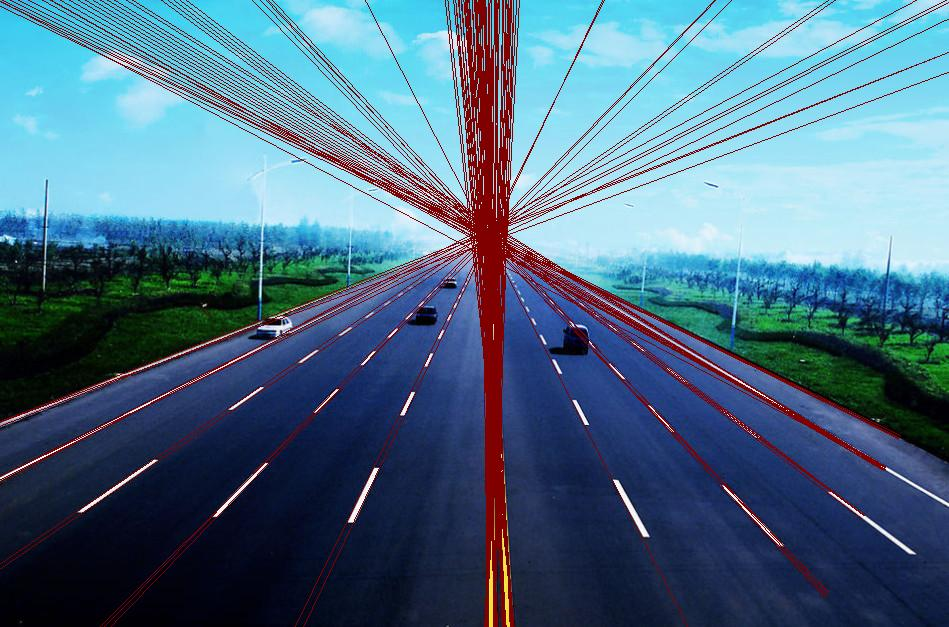
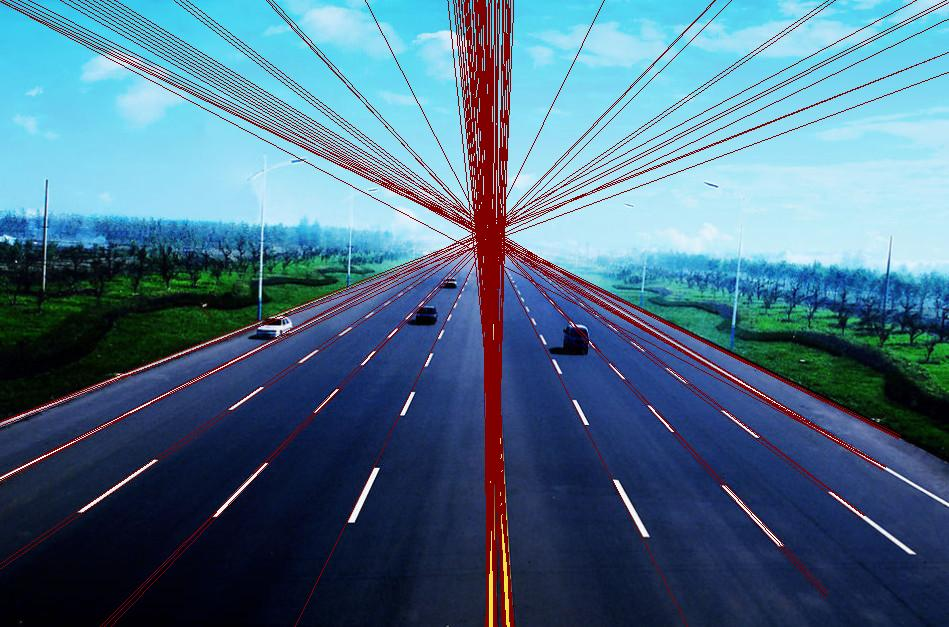
commit

diff --git a/edge.py b/edge.py
@@ -97,7 +97,7 @@ def hough(G):
     H = G.shape[0]  #Y
     W = G.shape[1]  #X
     Maxdist = int(np.round(np.sqrt(H**2 +W**2)))
-    thetas = np.deg2rad(np.linspace(0,180.0, num=720, endpoint=False)) ##TODO: linspace
+    thetas = np.deg2rad(np.linspace(0,180.0, num=720, endpoint=False))
     rhos = np.linspace(-Maxdist,Maxdist, 2*Maxdist)
     accumulator = np.zeros((2*Maxdist, len(thetas)))
 
@@ -110,6 +110,44 @@ def hough(G):
                     accumulator[int(p)+Maxdist][k] +=1
     
     return accumulator , thetas ,rhos
+
+def Local_MAX(G,i,j):
+    row_limit = len(G)
+    column_limit = len(G[0])
+    for x in range(max(0,i-1),min(i+2,row_limit)):
+        for y in range(max(0,j-1), min(j+2,column_limit)):
+            if x != i or y!= j:
+                #G[i][j] is local max and Larger than 130 vote
+                if G[x][y] > G[i][j] or 130 > G[i][j]:
+                    return False
+    return True    
+
+def DrawLine(img_name,mask_index):
+    im = Image.open(img_name)
+    draw = ImageDraw.Draw(im)
+
+    #For each mask, draw a line
+    for index in range(len(mask_index)):
+        #Cut 0~180 degree in 720 parts before
+        theta = np.deg2rad(mask_index[index][1]/4)
+        p = mask_index[index][0]    
+        rho = rhos[p]
+        a = np.cos(theta)
+        b = np.sin(theta) 
+
+        #Cal the x/y-intercept
+        x0 = (a*rho)
+        y0 = (b*rho)
+
+        #1000 is length of line
+        x1 = int(x0 + 1000 * (-b))
+        y1 = int(y0 + 1000 * (a))
+        x2 = int(x0 - 1000 * (-b))
+        y2 = int(y0 - 1000 * (a))
+
+        draw.line([x1,y1,x2,y2], fill = 128, width=1)
+    
+    im = im.save("detection_result.jpg")
 
 img_name = 'road.jpeg'
 img = read_img_as_array(img_name)
@@ -128,18 +166,6 @@ save_array_as_img(edgemap_G, "edgemap.jpg")
 accumulator , thetas ,rhos = hough(edgemap_G)
 
 save_array_as_img(accumulator, "hough.jpg")
-
-def Local_MAX(G,i,j):
-    row_limit = len(G)
-    column_limit = len(G[0])
-    for x in range(max(0,i-1),min(i+2,row_limit)):
-        for y in range(max(0,j-1), min(j+2,column_limit)):
-            if x != i or y!= j:
-                #G[i][j] is local max and Larger than 100 vote
-                if G[x][y] > G[i][j] or 120 > G[i][j]:
-                    return False
-    return True    
-
 row_limit = len(accumulator)
 column_limit = len(accumulator[0])
 
@@ -151,29 +177,4 @@ for i in range(row_limit):
 
 #Get all the local_max point (x,y)
 mask_index = np.asarray(np.where(mask==1)).T
-im = Image.open(img_name)
-draw = ImageDraw.Draw(im)
-
-print("Start Draw!")
-#For each mask, draw a line
-for index in range(len(mask_index)):
-    #Cut 0~180 degree in 720 parts before
-    theta = np.deg2rad(mask_index[index][1]/4)
-    p = mask_index[index][0]    
-    rho = rhos[p]
-    a = np.cos(theta)
-    b = np.sin(theta) 
-
-    #Cal the x/y-intercept
-    x0 = (a*rho)
-    y0 = (b*rho)
-
-    #1000 is length of line
-    x1 = int(x0 + 1000 * (-b))
-    y1 = int(y0 + 1000 * (a))
-    x2 = int(x0 - 1000 * (-b))
-    y2 = int(y0 - 1000 * (a))
-
-    draw.line([x1,y1,x2,y2], fill = 128, width=1)
-  
-im = im.save("detection_result.jpg")
+DrawLine(img_name,mask_index)
